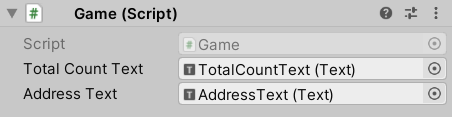
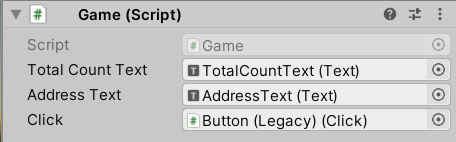
Proofreading
Missing MonoBehaviour

Image fix

Code fix

diff --git a/docs/tutorial.md b/docs/tutorial.md
@@ -102,9 +102,11 @@ Create a file named `Click.cs` under `Assets/Scripts` with
 the following content.
 
 ```csharp
+using UnityEngine;
+
 namespace Scripts
 {
-    public class Click
+    public class Click : MonoBehaviour
     {
         public int Count { get; set; } = 0;
 
@@ -370,7 +372,7 @@ namespace Scripts
         // Connected to UI elements.
         public Text TotalCountText;
         public Text AddressText;
-        public Click click;
+        public Click Click;
 
         // Internal timer.
         private float _timer;
@@ -448,17 +450,17 @@ namespace Scripts
             // Afterwards, resets the timer and the count.
             else
             {
-                if (click.Count > 0)
+                if (Click.Count > 0)
                 {
                     List<ActionBase> actions = new List<ActionBase>()
                     {
-                        new ClickAction(click.Count)
+                        new ClickAction(Click.Count)
                     };
                     Agent.Instance.MakeTransaction(actions);
                 }
 
                 _timer = TxProcessInterval;
-                click.ResetCount();
+                Click.ResetCount();
             }
         }
 
